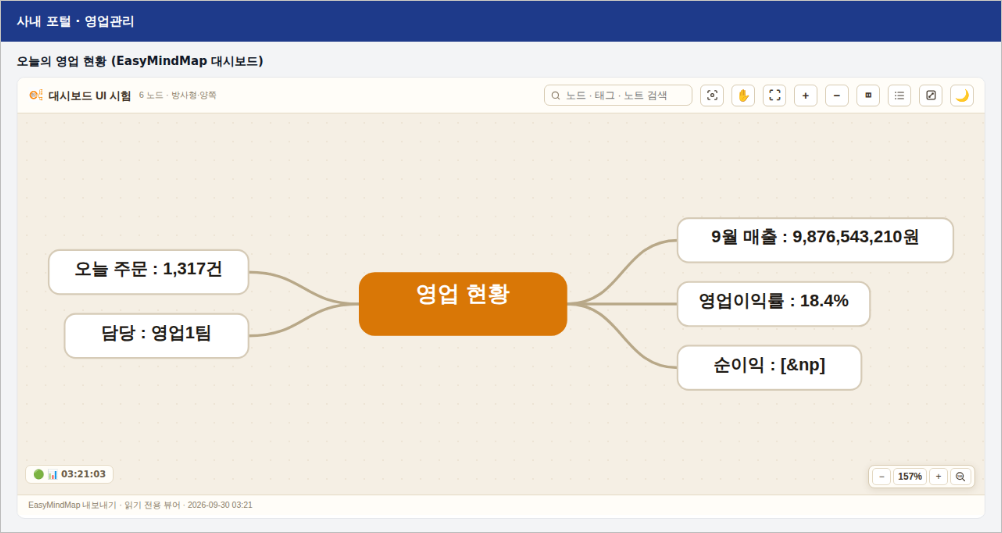
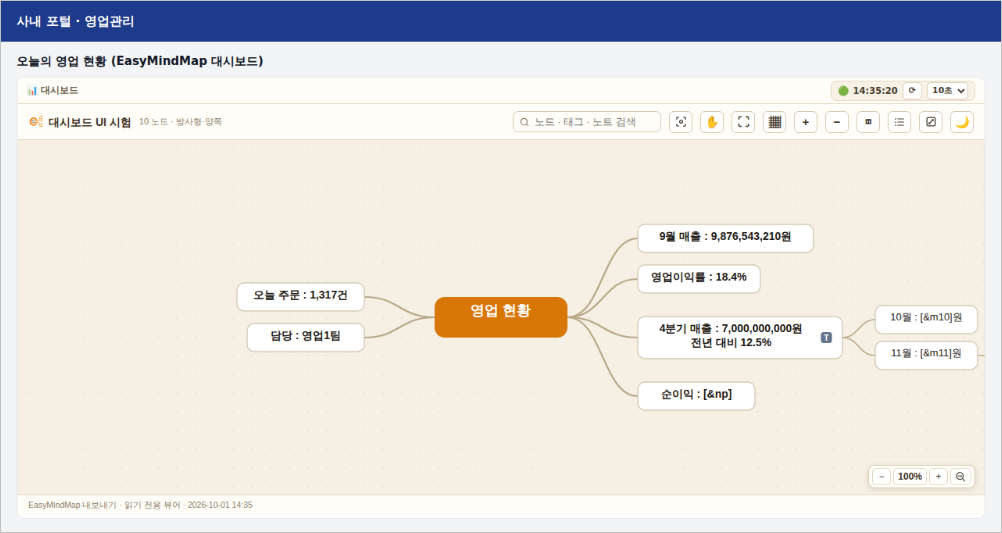
docs: 가이드 13 그림 갱신(문서함 · 포털 iframe 위쪽 막대) · 카탈로그 e2e326 (#607)
Claude-Session: https://claude.ai/code/session_01AoGXgGWrXHbWMncuBzWjkj

diff --git a/docs/05-implementation/test-catalog.md b/docs/05-implementation/test-catalog.md
@@ -75,6 +75,7 @@
 | e2e41 | 기사 사진 다운로드 내장 | CORS 허용=data URL 내장 / 차단=원본 URL 폴백, 원문 위치 보존 | 04-node-content |
 | e2e324 | **그림만 붙여넣기 = 선택 노드의 첨부** (2026-10-01 사용자 요청 — 캡처를 Ctrl+V 하면 하위 노드 사진이 아니라 선택 노드의 📎 첨부로) | 구성: 프런트 단위(`pasteIntent.test.ts`, `test:unit`) **15항목** — ①그림만 → `attach-image` ②그림+공백 → 첨부 ③그림+글자 → `child-node` ④글자만·기사 사진만 → 하위 노드 ⑤표+그림 비트맵 → 하위 노드(표 우선 규칙 유지) ⑥빈 클립보드·공백만 → `nothing` ⑦이름 `image.png`·빈 이름·`blob.webp` → `캡처-YYYYMMDD-HHMMSS.<확장자>`(jpeg→jpg · svg+xml→svg · mime 없음→png), 진짜 파일 이름은 지킨다. `Canvas.handlePaste` 는 `attach-image` 면 `addNodeAttachment(selectedId, {kind:'file', url: attachFileWithProgress})` — 드롭과 같은 길. **첨부 탭 단추 「📋 첨부파일로 이미지 붙여넣기」**(사용자 제안) — 단위(`clipboardRead.test.ts`) **14항목**: ①png+html 항목 → 그림 1개 ②같은 그림 두 형식 → png 우선 ③글자만·빈 클립보드 → 빈 배열 ④항목 2개 → 2개 ⑤오류 문장(권한 거부·그림 없음·그 밖) ⑥첨부 종류 `attachmentKindFor`(png→file · mp3→audio · mp4→video · pdf→file) · `isImageFileName`. **업로드 뒤 같은 문서 확인**(Codex #603) — `documentStore.docEpoch` 가 문서 경계(`asDocumentSwap`)마다 +1, 업로드 전후가 다르면 붙이지 않고 알린다(붙여넣기·드롭·첨부 탭 세 길). 단위(`docEpoch.test.ts`) **5항목**: ①숫자 ②맵 열기(resetHistory) +1 ③같은 문서 편집 그대로 ④resetHistory 없는 loadMap 그대로 ⑤다른 맵 또 +1. **사용자 실측(10-01, pro-dev)** — 그림만 + 선택 → 📎 첨부 OK · 글+사진 기사 + 선택 → 하위 노드 내용 OK · 편집 중 Ctrl+V → 그 노드 내용 OK. **한계(정직하게)** — 자동 브라우저 e2e 는 이 컨테이너에 프런트 의존성(npm 403)이 없어 못 돌렸다. CI 의 type-check·build·`test:unit` 이 검사한다 | 02-node-editing.md §5.2 「그림만 붙여넣기」 · user-guide 03 「사진·기사 붙여넣기」 · `pasteIntent.ts` |
 | e2e325 | **문서함 📊 대시보드 구역 · 연결 주소 줄 + 노드를 내용째 추가** (2026-10-01 사용자 요청: "내 문서에서 대시보드맵을 퍼블리싱에 넣지 말고 대시보드 구분을 따로 — 제대로 연결될 퍼블리싱 URL 을 제공" · "노드 추가 시 노드 자체만이 아니라 노드 내용까지 포함" — 22-dashboard.md v3.4 §4.2 · §7) | **코어**: `MapBrowser.tsx` — `viewMode==='dashboard'` 판정 하나로 `📊 대시보드 (N)` 구역(내 트리 아래 · 퍼블리싱 위, 진짜 폴더 아님 — 되돌리면 원래 폴더), 머리글 "N개가 연결 주소로 열려 있습니다", 맵마다 `DashLinkRow`(링크 공개 = `…/p/{id}?embed=1` + 주소 복사·iframe 코드·열어 보기 / 보관 = 취소선 + 다시 열기 / 없음 = [🔗 연결 주소 만들기] → `publishMap(…,'public')`). **검증은 유료 저장소 PR 검사**(`dashboard.ui.e2e.mjs` 가 이 코어를 `CORE_SHA` 로 얹어 띄운다 — 유료 기능이 있어야 대시보드맵이 생긴다): 구역 순서(DOM 순서 대시보드 머리글 < 이 맵 < 퍼블리싱 머리글) · 연결 줄 `data-state` none → 만들기 → open · 서버 publish-status public·미진열 · 표시 주소가 `/p/{publishId}?embed=1` · 링크를 열어도 대시보드 구역에 그대로 · 단추 3개 · 보관 → 🔒 · [다시 열기] → **같은 주소** — **UI 49 PASS**(노드를 내용째 추가하는 유료 쪽 항목은 유료 카탈로그) · HTTP 110 PASS · 프런트 tsc·vite 빌드. 가이드 13 스크린샷 2장(문서함 · 카드 ③)이 같은 실행에서 나왔다 | 22-dashboard §4.2 · §7 · 가이드 13 §2 · §6 · §7 |
+| e2e326 | **대시보드 공개 화면 — 갱신 표시를 위쪽 막대로(⟳·간격) · 문서함 연결 주소 줄 뺌** (2026-10-01 사용자 요청: "연결 주소 줄은 필요 없다 — 퍼블리싱 아이콘에서 다 본다" · "링크로 열었을 때 시간·연결 상태를 대시보드맵을 열었을 때와 똑같이 상단에, 리프레시 간격 설정도 같이" — #606, 22-dashboard.md v3.5) | **코어**: `PublicMapPage` — 왼쪽 아래 배지 대신 뷰어 머리말 위 34px `public-dashboard-bar`(머리말과 같은 색, `--viewer-dash` 만큼 iframe 을 내림), 알약 `🟢 지금 시각 · ⟳ · [끔/10초/30초/1분/5분]` — 간격은 에디터와 같은 `emm.dash.interval`, 끔이면 스스로 묻지 않고 ⟳ 로만, ⟳ 는 표식과 상관없이 다시 받음. `MapBrowser` — `DashLinkRow`(e2e325) 제거, 📊 대시보드 구역은 그대로. **검증은 유료 저장소 PR 검사**(포털 흉내 페이지 안 iframe): 막대 맨 위 = 끼운 iframe 맨 위 · 막대 아래 = 뷰어 맨 위(±2px) · ⟳ · 간격 기본 10 · 시계가 흐름 · 스스로 갱신 10.3초 · 간격 끔 → 값을 바꿔도 12초 그대로 → ⟳ 로 바로 · `emm.dash.interval=0` 기억 · 문서함에 연결 줄 0개 — **UI 49 PASS** · HTTP 110 PASS. 가이드 13 그림 2장(문서함 · 사내 포털 iframe) 다시 찍음 | 22-dashboard §4.2 · §4.7 · 가이드 13 §2 · §7 |
 
 ### 2.3 캔버스·레이아웃·선택
 
@@ -486,6 +487,9 @@
 > 겹쳐 보이지만 날짜와 함께 읽으면 유일하다. **고치지 말 것** — 그때의
 > 기록을 지금 규칙으로 고쳐 쓰면 없던 역사를 만드는 셈이다.
 
+- 2026-10-01 (286차): **e2e326 — 대시보드 공개 화면 위쪽 갱신 막대 · 문서함 연결 주소 줄 뺌**(사용자 요청, #606).
+  링크로 연 화면도 에디터처럼 맨 위에 `🟢 지금 시각 ⟳ [10초▾]`. 연결 주소는 줄의 🌐 퍼블리싱 창에서.
+  유료 PR 검사 UI 49 · HTTP 110 PASS. 가이드 그림 2장 갱신.
 - 2026-10-01 (285차): **e2e325 — 문서함 📊 대시보드 구역 · 연결 주소 줄 + 노드를 내용째 추가**(사용자 요청).
   대시보드맵은 퍼블리싱 구역이 아니라 제 구역에 모이고, 맵마다 `…?embed=1` 연결 주소와 복사·iframe·열기
   (없으면 [🔗 연결 주소 만들기], 보관이면 [다시 열기]). 노드를 내용째 추가는 유료 쪽(유료 카탈로그).
